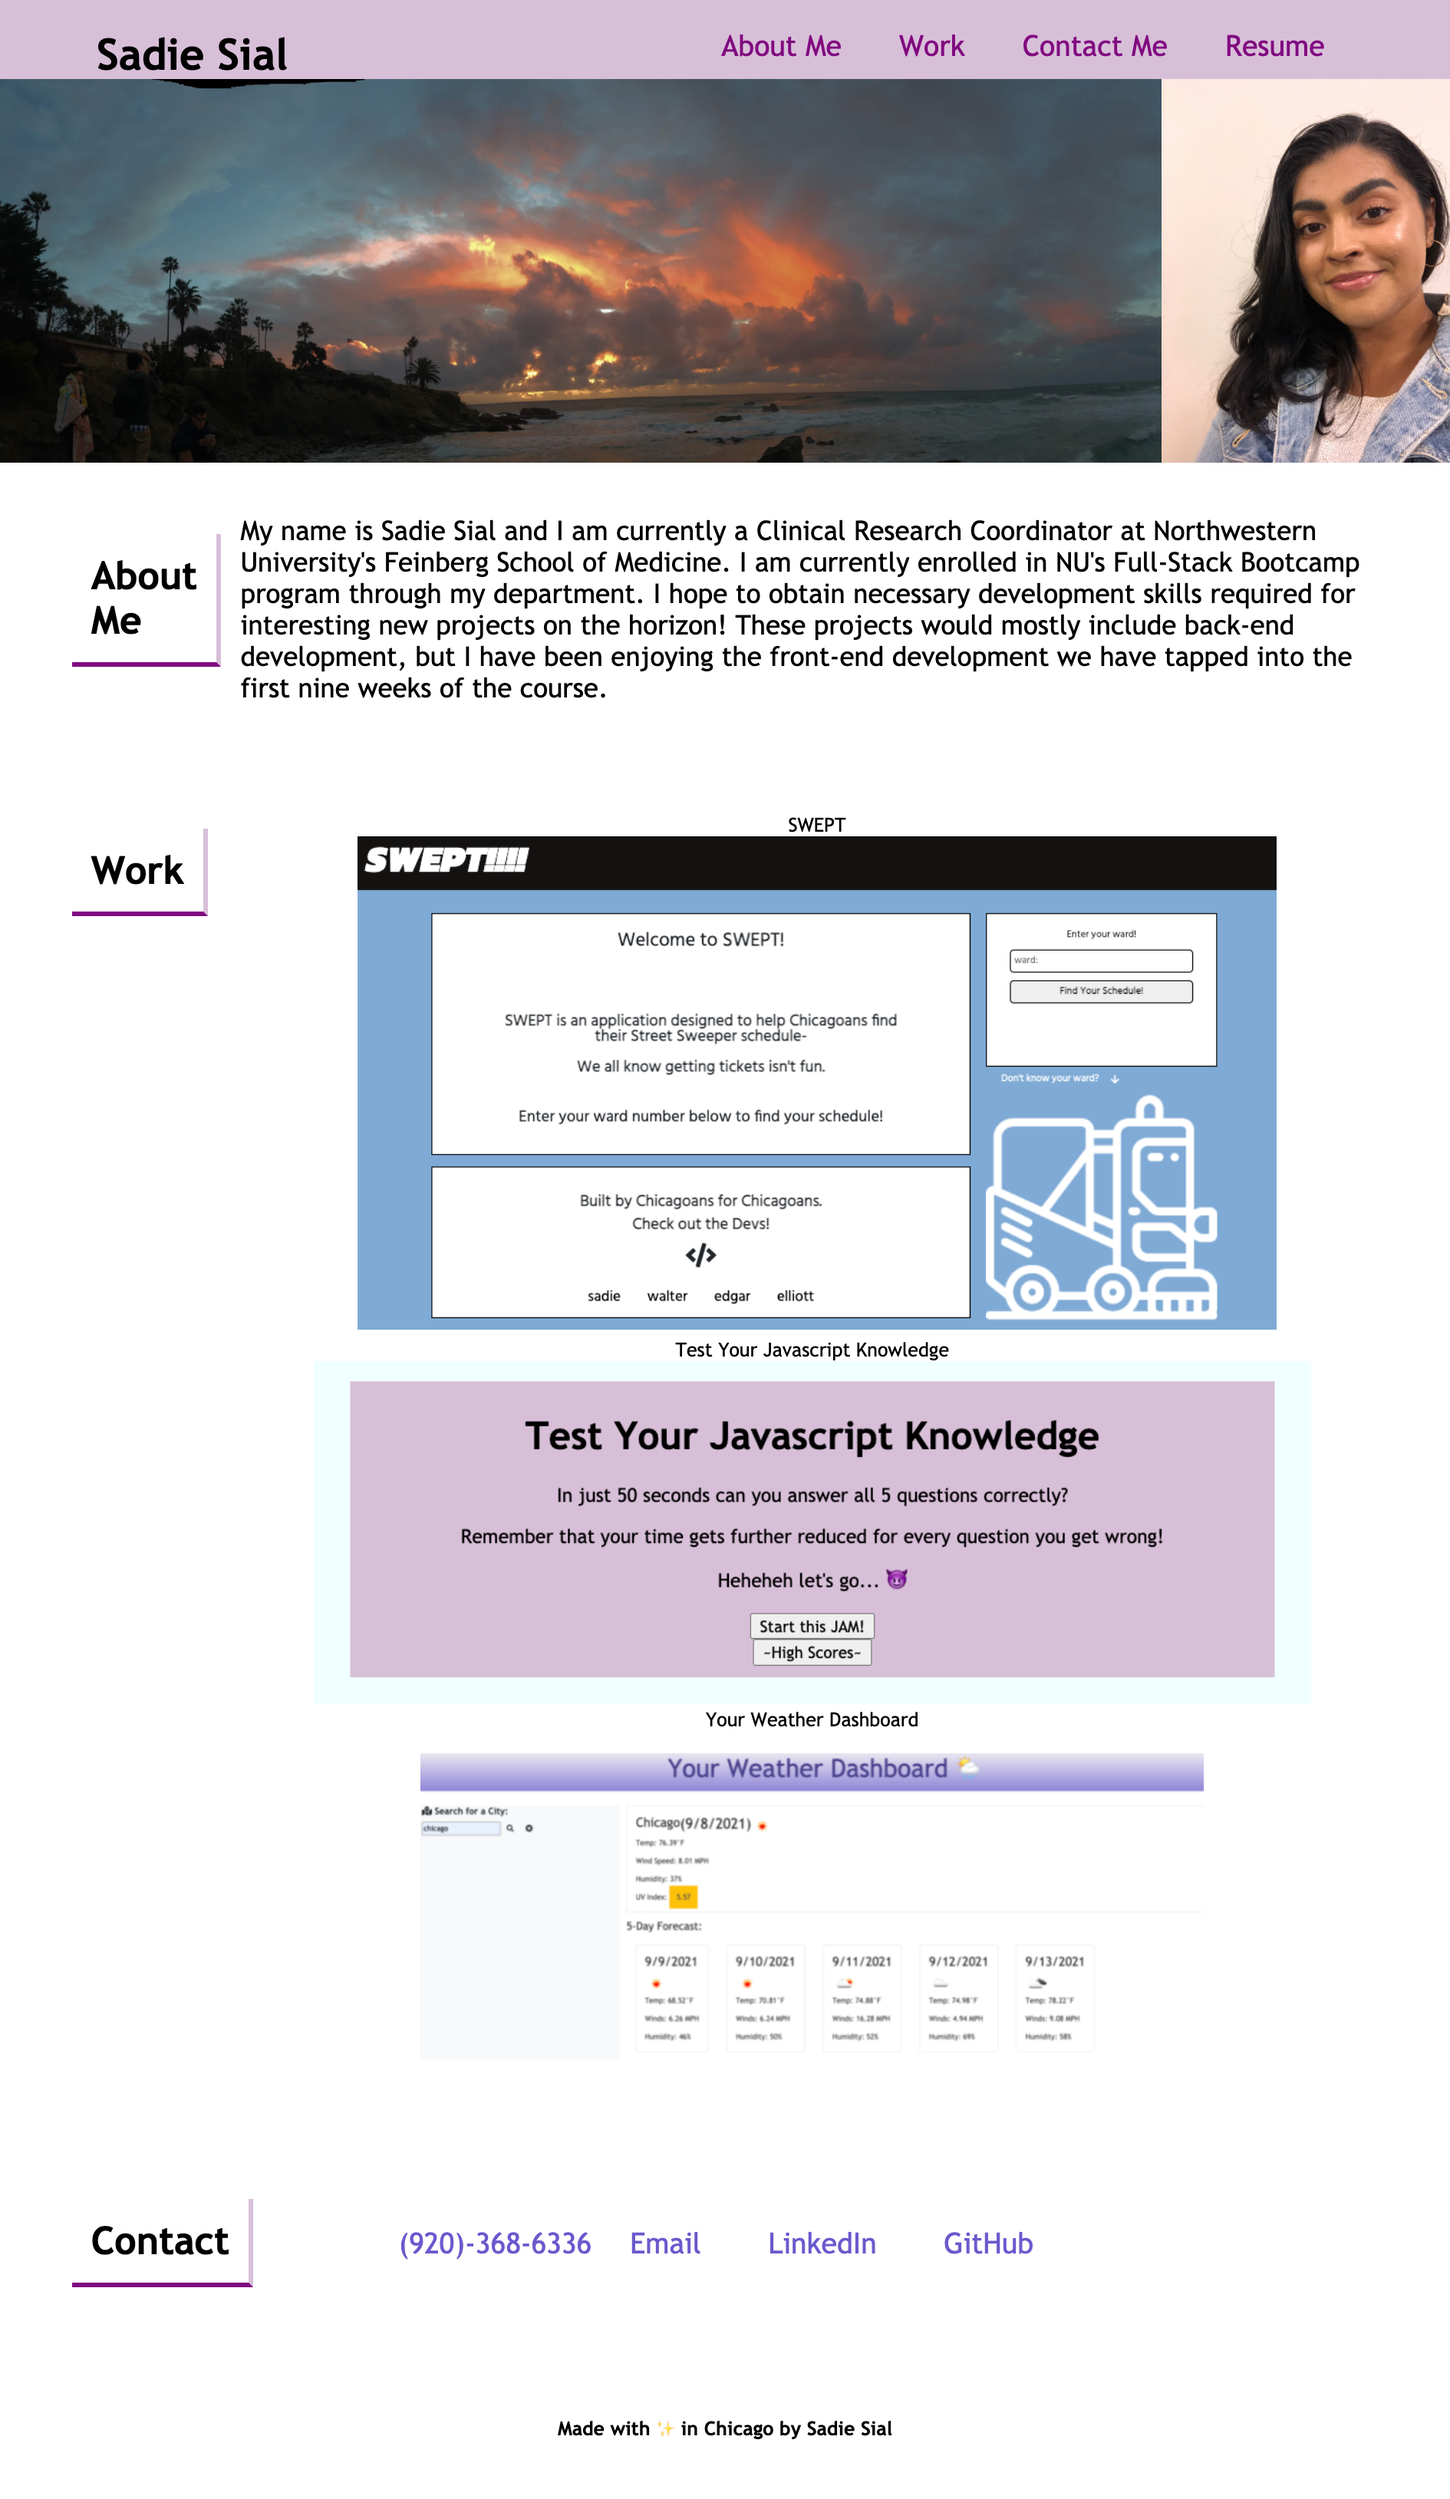
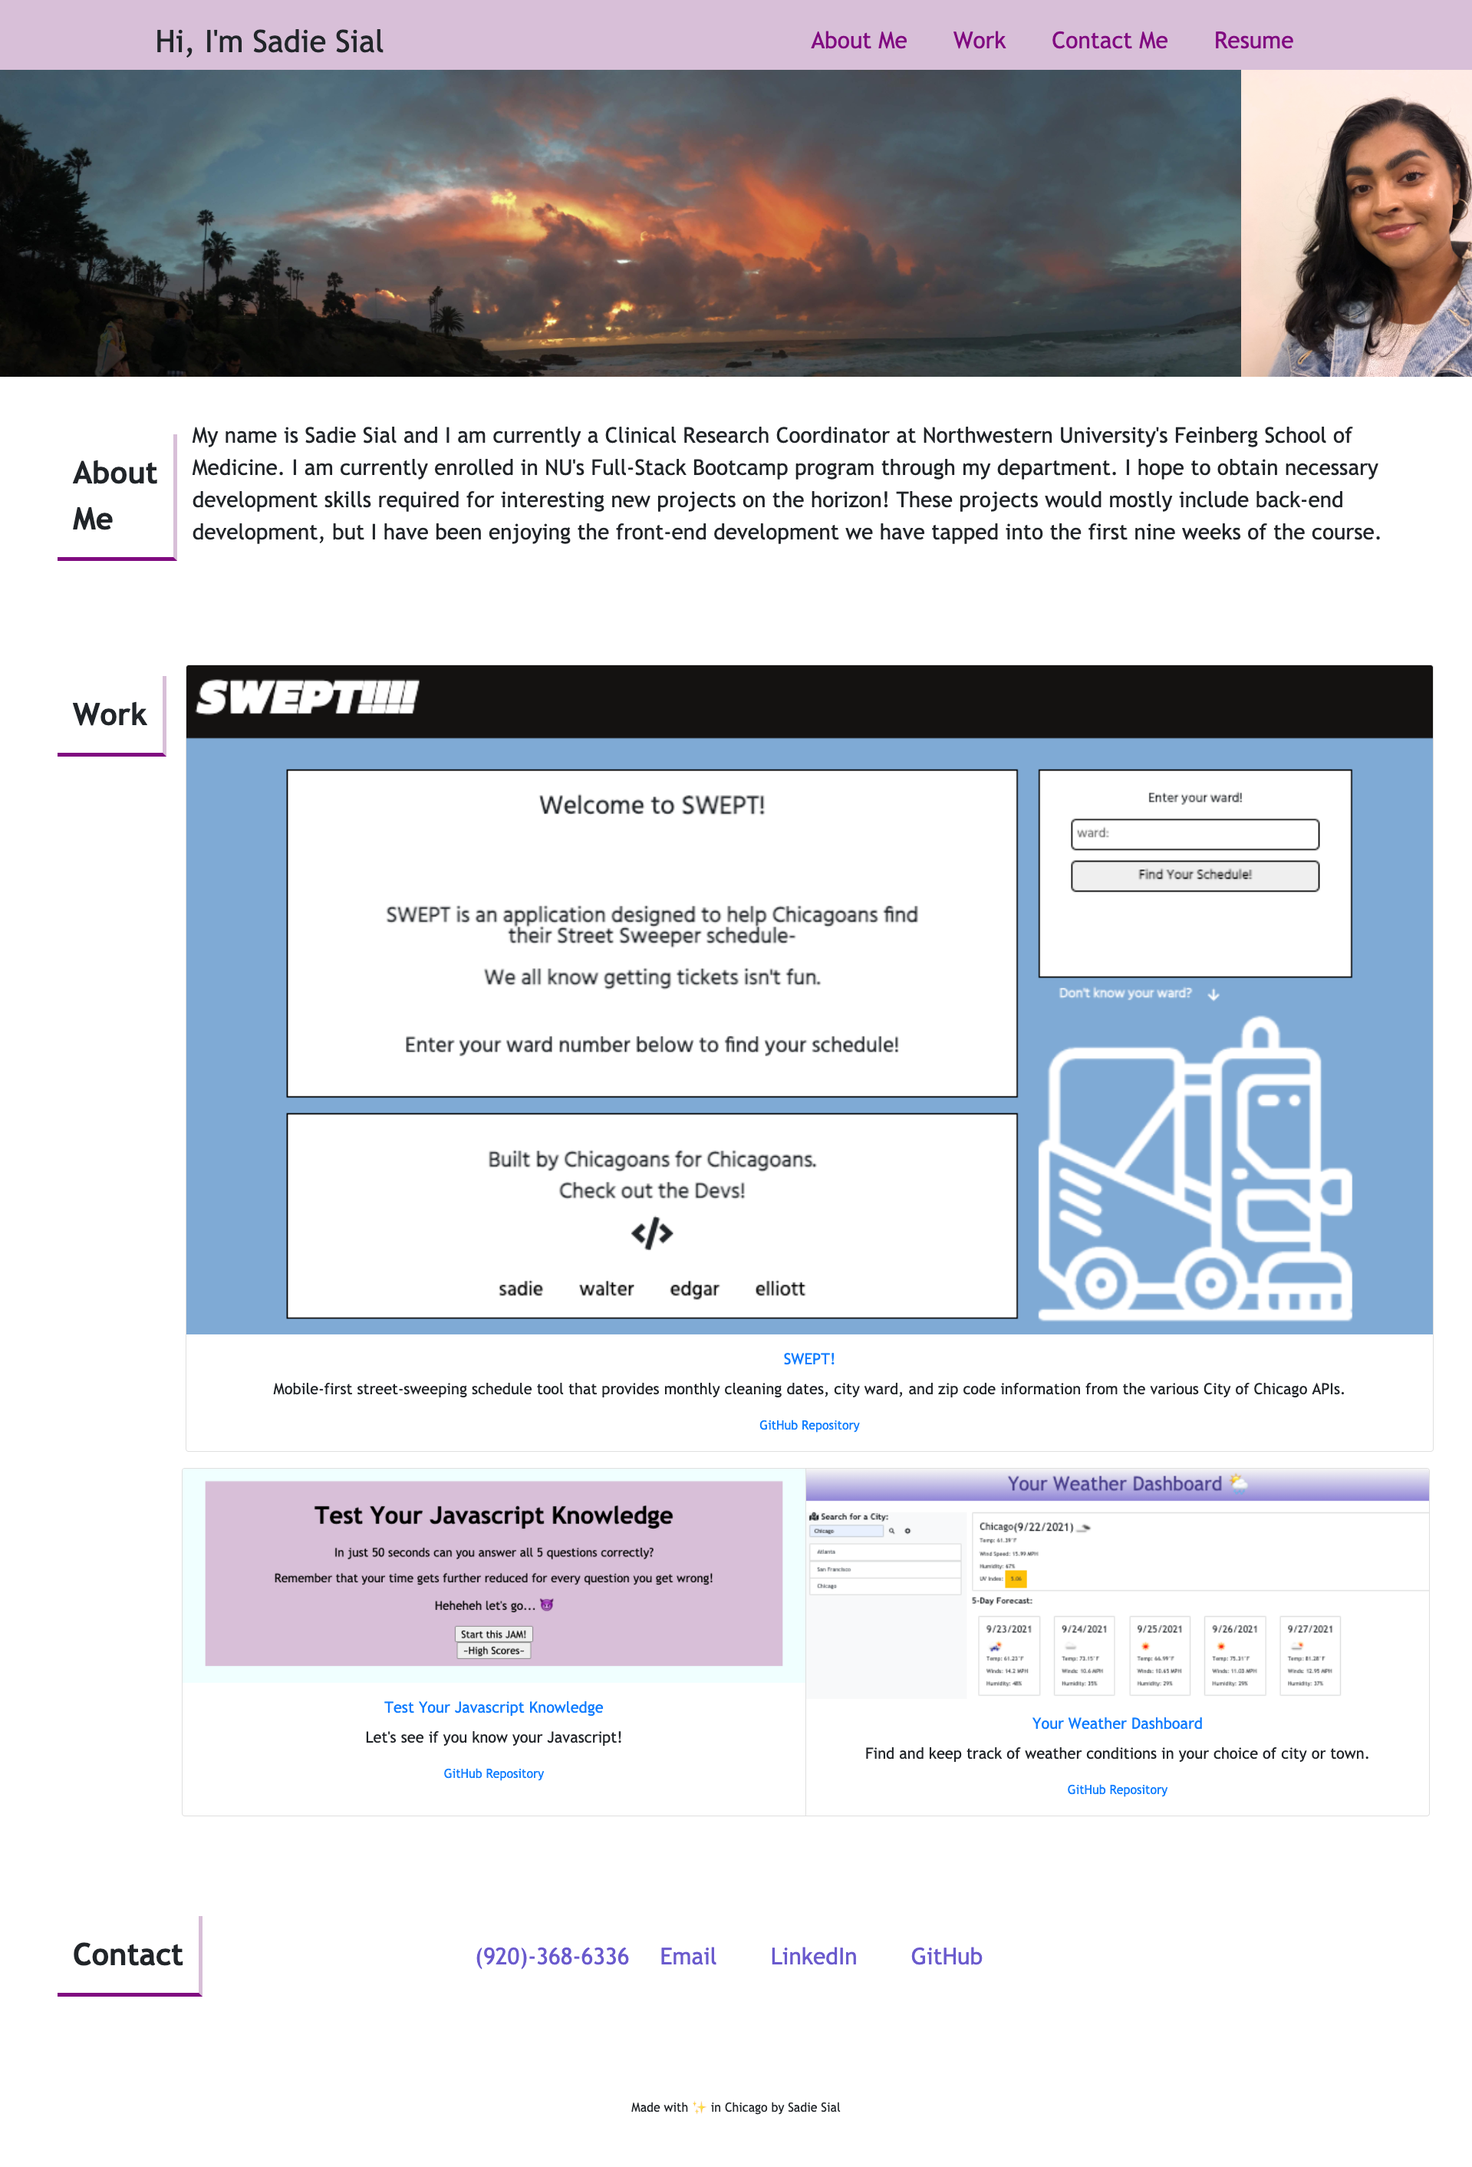
updated screenshot in readme + fixed links in project cards

diff --git a/index.html b/index.html
@@ -4,7 +4,7 @@
 <!-- Website title + stylesheet linking -->
 <head>
   <meta charset="UTF-8" />
-  <title>Sadie Sial (¬‿¬)ﾉ *:･ﾟ✧ </title>
+  <title>Sadie Sial *:･ﾟ✧ </title>
   <link rel="stylesheet" href="https://cdn.jsdelivr.net/npm/bootstrap@4.6.0/dist/css/bootstrap.min.css" integrity="sha384-B0vP5xmATw1+K9KRQjQERJvTumQW0nPEzvF6L/Z6nronJ3oUOFUFpCjEUQouq2+l" crossorigin="anonymous">
   <link rel="stylesheet" href="./assets/css/style.css" />
 </head>
@@ -147,6 +147,8 @@
           <li><a href="https://www.linkedin.com/in/sadie-sial-bootcamp" target="_blank">LinkedIn</a></li>
           <li><a href="https://github.com/sadielinks" target="_blank">GitHub</a></li>
         </ul>
+
+        
     </section>
   </main>
 
